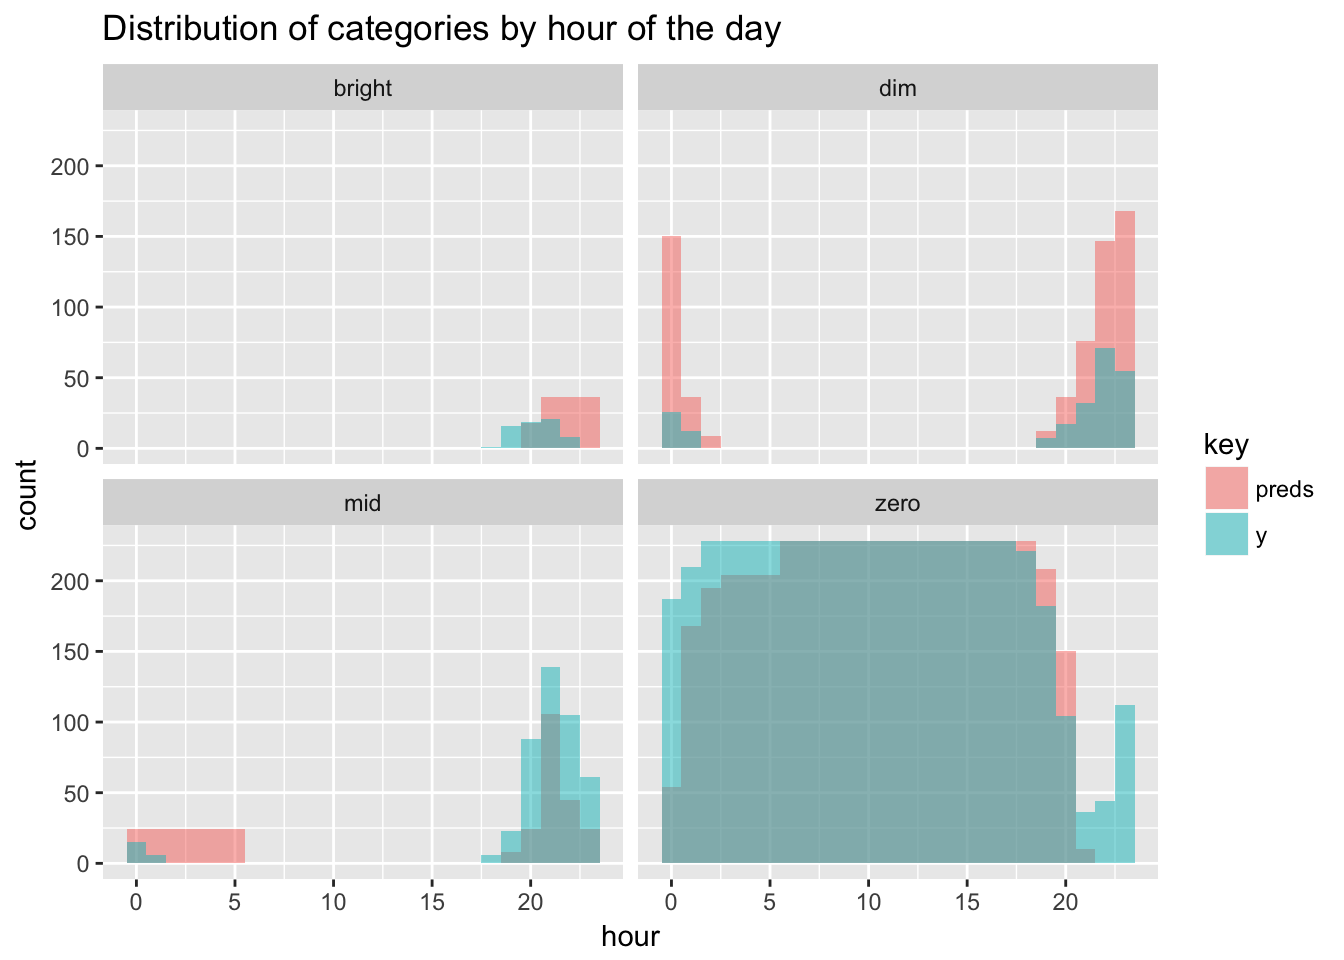
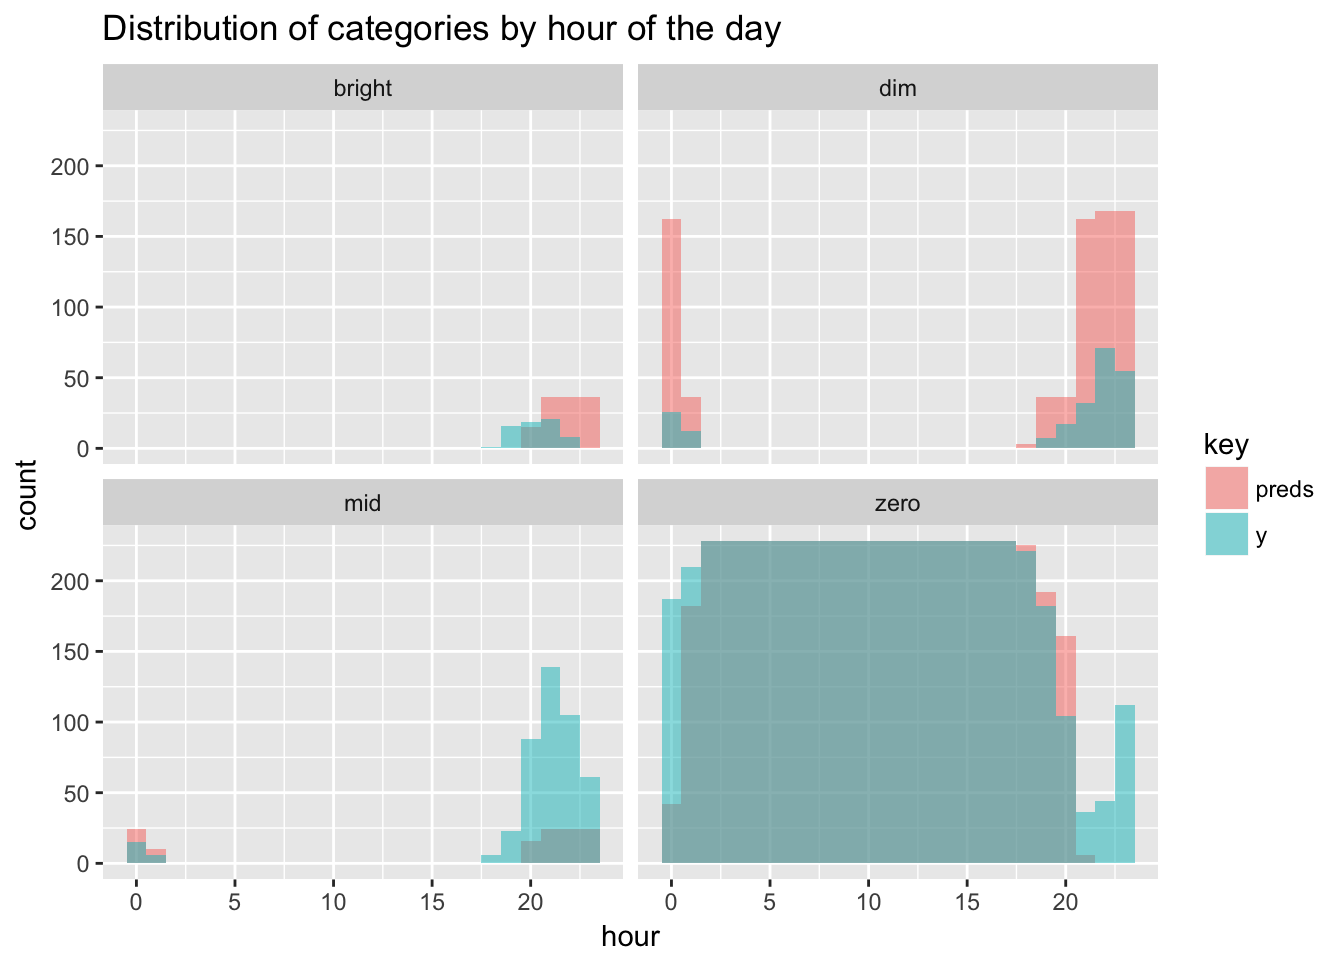
w disqus

diff --git a/blog/self-learning-hue-lights/index.html b/blog/self-learning-hue-lights/index.html
@@ -44,11 +44,11 @@
 
 
     
-    <link rel="stylesheet" href="../../css/reset.css?t=1504443331">
-    <link rel="stylesheet" href="../../css/pygments.css?t=1504443331">
-    <link rel="stylesheet" href="../../css/main.css?t=1504443331">
+    <link rel="stylesheet" href="../../css/reset.css?t=1504443548">
+    <link rel="stylesheet" href="../../css/pygments.css?t=1504443548">
+    <link rel="stylesheet" href="../../css/main.css?t=1504443548">
     
-        <link rel="stylesheet" href="../../css/override.css?t=1504443331">
+        <link rel="stylesheet" href="../../css/override.css?t=1504443548">
     
 
 
@@ -278,10 +278,10 @@ gbmFit &lt;- train(y ~ ., data = training,
 table(preds, testing$y)</code></pre>
 <pre><code>##         
 ## preds     dim  mid bright zero
-##   dim      88  192     23  331
-##   mid      49   82     11  209
-##   bright   37   57      0   32
-##   zero     46  112     31 4172</code></pre>
+##   dim     107  255     31  378
+##   mid      31   21      5   65
+##   bright   37   56      0   30
+##   zero     45  111     29 4271</code></pre>
 <p>Most mistakes are made trying to classify bright and mid. The model gets 0 bright values right and only manages to do so correctly 14% of the time for mid. But when do errors happen? To dig a little deeper let’s look at the previous histogram of categories by hour again for the test set, but now with the predictions overlaid on top.</p>
 <p><img src="../../blog/2017/2017-05-14-hue_files/figure-html/unnamed-chunk-11-1.png" width="672" /></p>
 <p>Bright values were always going be hard to guess, but the model at least comes close in terms of hours, but off on the exact days. The majority of misclassification comes from overzealously predicting dim in the evening and around midnight, when it should really be either mid or zero. That looks like a workable scenario for me.</p>
@@ -330,7 +330,21 @@ jug() %&gt;% post(&quot;/predict-hue&quot;, decorate(predict_hue)) %&gt;%
             </div>
             <br>
             <div class="disqus">
-                
+                <div id="disqus_thread"></div>
+<script type="text/javascript">
+    var disqus_shortname = 'Tamas';
+    var disqus_identifier = 'http:\/\/tamaszilagyi.com\/blog\/self-learning-hue-lights\/';
+    var disqus_title = 'Self-learning Hue Lights';
+    var disqus_url = 'http:\/\/tamaszilagyi.com\/blog\/self-learning-hue-lights\/';
+
+    (function() {
+        var dsq = document.createElement('script'); dsq.type = 'text/javascript'; dsq.async = true;
+        dsq.src = '//' + disqus_shortname + '.disqus.com/embed.js';
+        (document.getElementsByTagName('head')[0] || document.getElementsByTagName('body')[0]).appendChild(dsq);
+    })();
+</script>
+<noscript>Please enable JavaScript to view the <a href="http://disqus.com/?ref_noscript">comments powered by Disqus.</a></noscript>
+<a href="http://disqus.com" class="dsq-brlink">comments powered by <span class="logo-disqus">Disqus</span></a>
             </div>
         </div>
     </div>

diff --git a/blog/creating-a-spotify-playlist-using-luigi/index.html b/blog/creating-a-spotify-playlist-using-luigi/index.html
@@ -44,11 +44,11 @@
 
 
     
-    <link rel="stylesheet" href="../../css/reset.css?t=1504443331">
-    <link rel="stylesheet" href="../../css/pygments.css?t=1504443331">
-    <link rel="stylesheet" href="../../css/main.css?t=1504443331">
+    <link rel="stylesheet" href="../../css/reset.css?t=1504443548">
+    <link rel="stylesheet" href="../../css/pygments.css?t=1504443548">
+    <link rel="stylesheet" href="../../css/main.css?t=1504443548">
     
-        <link rel="stylesheet" href="../../css/override.css?t=1504443331">
+        <link rel="stylesheet" href="../../css/override.css?t=1504443548">
     
 
 
@@ -432,7 +432,21 @@ class spotify_morning_playlist(luigi.Task):
             </div>
             <br>
             <div class="disqus">
-                
+                <div id="disqus_thread"></div>
+<script type="text/javascript">
+    var disqus_shortname = 'Tamas';
+    var disqus_identifier = 'http:\/\/tamaszilagyi.com\/blog\/creating-a-spotify-playlist-using-luigi\/';
+    var disqus_title = 'Creating a Spotify Playlist using Luigi';
+    var disqus_url = 'http:\/\/tamaszilagyi.com\/blog\/creating-a-spotify-playlist-using-luigi\/';
+
+    (function() {
+        var dsq = document.createElement('script'); dsq.type = 'text/javascript'; dsq.async = true;
+        dsq.src = '//' + disqus_shortname + '.disqus.com/embed.js';
+        (document.getElementsByTagName('head')[0] || document.getElementsByTagName('body')[0]).appendChild(dsq);
+    })();
+</script>
+<noscript>Please enable JavaScript to view the <a href="http://disqus.com/?ref_noscript">comments powered by Disqus.</a></noscript>
+<a href="http://disqus.com" class="dsq-brlink">comments powered by <span class="logo-disqus">Disqus</span></a>
             </div>
         </div>
     </div>

diff --git a/blog/analyzing-my-spotify-listening-history/index.html b/blog/analyzing-my-spotify-listening-history/index.html
@@ -44,11 +44,11 @@
 
 
     
-    <link rel="stylesheet" href="../../css/reset.css?t=1504443331">
-    <link rel="stylesheet" href="../../css/pygments.css?t=1504443331">
-    <link rel="stylesheet" href="../../css/main.css?t=1504443331">
+    <link rel="stylesheet" href="../../css/reset.css?t=1504443548">
+    <link rel="stylesheet" href="../../css/pygments.css?t=1504443548">
+    <link rel="stylesheet" href="../../css/main.css?t=1504443548">
     
-        <link rel="stylesheet" href="../../css/override.css?t=1504443331">
+        <link rel="stylesheet" href="../../css/override.css?t=1504443548">
     
 
 
@@ -398,7 +398,21 @@ gganimate(gg_life)</code></pre>
             </div>
             <br>
             <div class="disqus">
-                
+                <div id="disqus_thread"></div>
+<script type="text/javascript">
+    var disqus_shortname = 'Tamas';
+    var disqus_identifier = 'http:\/\/tamaszilagyi.com\/blog\/analyzing-my-spotify-listening-history\/';
+    var disqus_title = 'Analyzing My Spotify Listening History';
+    var disqus_url = 'http:\/\/tamaszilagyi.com\/blog\/analyzing-my-spotify-listening-history\/';
+
+    (function() {
+        var dsq = document.createElement('script'); dsq.type = 'text/javascript'; dsq.async = true;
+        dsq.src = '//' + disqus_shortname + '.disqus.com/embed.js';
+        (document.getElementsByTagName('head')[0] || document.getElementsByTagName('body')[0]).appendChild(dsq);
+    })();
+</script>
+<noscript>Please enable JavaScript to view the <a href="http://disqus.com/?ref_noscript">comments powered by Disqus.</a></noscript>
+<a href="http://disqus.com" class="dsq-brlink">comments powered by <span class="logo-disqus">Disqus</span></a>
             </div>
         </div>
     </div>

diff --git a/blog/starting-a-blogdown/index.html b/blog/starting-a-blogdown/index.html
@@ -44,11 +44,11 @@
 
 
     
-    <link rel="stylesheet" href="../../css/reset.css?t=1504443331">
-    <link rel="stylesheet" href="../../css/pygments.css?t=1504443331">
-    <link rel="stylesheet" href="../../css/main.css?t=1504443331">
+    <link rel="stylesheet" href="../../css/reset.css?t=1504443548">
+    <link rel="stylesheet" href="../../css/pygments.css?t=1504443548">
+    <link rel="stylesheet" href="../../css/main.css?t=1504443548">
     
-        <link rel="stylesheet" href="../../css/override.css?t=1504443331">
+        <link rel="stylesheet" href="../../css/override.css?t=1504443548">
     
 
 
@@ -212,7 +212,21 @@ avatar       = &quot;img/profile_pic.png&quot;
             </div>
             <br>
             <div class="disqus">
-                
+                <div id="disqus_thread"></div>
+<script type="text/javascript">
+    var disqus_shortname = 'Tamas';
+    var disqus_identifier = 'http:\/\/tamaszilagyi.com\/blog\/starting-a-blogdown\/';
+    var disqus_title = 'Starting a blog(down)';
+    var disqus_url = 'http:\/\/tamaszilagyi.com\/blog\/starting-a-blogdown\/';
+
+    (function() {
+        var dsq = document.createElement('script'); dsq.type = 'text/javascript'; dsq.async = true;
+        dsq.src = '//' + disqus_shortname + '.disqus.com/embed.js';
+        (document.getElementsByTagName('head')[0] || document.getElementsByTagName('body')[0]).appendChild(dsq);
+    })();
+</script>
+<noscript>Please enable JavaScript to view the <a href="http://disqus.com/?ref_noscript">comments powered by Disqus.</a></noscript>
+<a href="http://disqus.com" class="dsq-brlink">comments powered by <span class="logo-disqus">Disqus</span></a>
             </div>
         </div>
     </div>

diff --git a/categories/r/index.html b/categories/r/index.html
@@ -44,11 +44,11 @@
 
 
     
-    <link rel="stylesheet" href="../../css/reset.css?t=1504443331">
-    <link rel="stylesheet" href="../../css/pygments.css?t=1504443331">
-    <link rel="stylesheet" href="../../css/main.css?t=1504443331">
+    <link rel="stylesheet" href="../../css/reset.css?t=1504443549">
+    <link rel="stylesheet" href="../../css/pygments.css?t=1504443549">
+    <link rel="stylesheet" href="../../css/main.css?t=1504443549">
     
-        <link rel="stylesheet" href="../../css/override.css?t=1504443331">
+        <link rel="stylesheet" href="../../css/override.css?t=1504443549">
     
 
 

diff --git a/tags/dplyr/index.html b/tags/dplyr/index.html
@@ -44,11 +44,11 @@
 
 
     
-    <link rel="stylesheet" href="../../css/reset.css?t=1504443331">
-    <link rel="stylesheet" href="../../css/pygments.css?t=1504443331">
-    <link rel="stylesheet" href="../../css/main.css?t=1504443331">
+    <link rel="stylesheet" href="../../css/reset.css?t=1504443549">
+    <link rel="stylesheet" href="../../css/pygments.css?t=1504443549">
+    <link rel="stylesheet" href="../../css/main.css?t=1504443549">
     
-        <link rel="stylesheet" href="../../css/override.css?t=1504443331">
+        <link rel="stylesheet" href="../../css/override.css?t=1504443549">
     
 
 

diff --git a/tags/ggplot/index.html b/tags/ggplot/index.html
@@ -44,11 +44,11 @@
 
 
     
-    <link rel="stylesheet" href="../../css/reset.css?t=1504443331">
-    <link rel="stylesheet" href="../../css/pygments.css?t=1504443331">
-    <link rel="stylesheet" href="../../css/main.css?t=1504443331">
+    <link rel="stylesheet" href="../../css/reset.css?t=1504443549">
+    <link rel="stylesheet" href="../../css/pygments.css?t=1504443549">
+    <link rel="stylesheet" href="../../css/main.css?t=1504443549">
     
-        <link rel="stylesheet" href="../../css/override.css?t=1504443331">
+        <link rel="stylesheet" href="../../css/override.css?t=1504443549">
     
 
 

diff --git a/tags/hue/index.html b/tags/hue/index.html
@@ -44,11 +44,11 @@
 
 
     
-    <link rel="stylesheet" href="../../css/reset.css?t=1504443331">
-    <link rel="stylesheet" href="../../css/pygments.css?t=1504443331">
-    <link rel="stylesheet" href="../../css/main.css?t=1504443331">
+    <link rel="stylesheet" href="../../css/reset.css?t=1504443549">
+    <link rel="stylesheet" href="../../css/pygments.css?t=1504443549">
+    <link rel="stylesheet" href="../../css/main.css?t=1504443549">
     
-        <link rel="stylesheet" href="../../css/override.css?t=1504443331">
+        <link rel="stylesheet" href="../../css/override.css?t=1504443549">
     
 
 

diff --git a/tags/luigi/index.html b/tags/luigi/index.html
@@ -44,11 +44,11 @@
 
 
     
-    <link rel="stylesheet" href="../../css/reset.css?t=1504443331">
-    <link rel="stylesheet" href="../../css/pygments.css?t=1504443331">
-    <link rel="stylesheet" href="../../css/main.css?t=1504443331">
+    <link rel="stylesheet" href="../../css/reset.css?t=1504443549">
+    <link rel="stylesheet" href="../../css/pygments.css?t=1504443549">
+    <link rel="stylesheet" href="../../css/main.css?t=1504443549">
     
-        <link rel="stylesheet" href="../../css/override.css?t=1504443331">
+        <link rel="stylesheet" href="../../css/override.css?t=1504443549">
     
 
 

diff --git a/tags/plot/index.html b/tags/plot/index.html
@@ -44,11 +44,11 @@
 
 
     
-    <link rel="stylesheet" href="../../css/reset.css?t=1504443331">
-    <link rel="stylesheet" href="../../css/pygments.css?t=1504443331">
-    <link rel="stylesheet" href="../../css/main.css?t=1504443331">
+    <link rel="stylesheet" href="../../css/reset.css?t=1504443549">
+    <link rel="stylesheet" href="../../css/pygments.css?t=1504443549">
+    <link rel="stylesheet" href="../../css/main.css?t=1504443549">
     
-        <link rel="stylesheet" href="../../css/override.css?t=1504443331">
+        <link rel="stylesheet" href="../../css/override.css?t=1504443549">
     
 
 

diff --git a/tags/purrr/index.html b/tags/purrr/index.html
@@ -44,11 +44,11 @@
 
 
     
-    <link rel="stylesheet" href="../../css/reset.css?t=1504443331">
-    <link rel="stylesheet" href="../../css/pygments.css?t=1504443331">
-    <link rel="stylesheet" href="../../css/main.css?t=1504443331">
+    <link rel="stylesheet" href="../../css/reset.css?t=1504443549">
+    <link rel="stylesheet" href="../../css/pygments.css?t=1504443549">
+    <link rel="stylesheet" href="../../css/main.css?t=1504443549">
     
-        <link rel="stylesheet" href="../../css/override.css?t=1504443331">
+        <link rel="stylesheet" href="../../css/override.css?t=1504443549">
     
 
 

diff --git a/tags/python/index.html b/tags/python/index.html
@@ -44,11 +44,11 @@
 
 
     
-    <link rel="stylesheet" href="../../css/reset.css?t=1504443331">
-    <link rel="stylesheet" href="../../css/pygments.css?t=1504443331">
-    <link rel="stylesheet" href="../../css/main.css?t=1504443331">
+    <link rel="stylesheet" href="../../css/reset.css?t=1504443549">
+    <link rel="stylesheet" href="../../css/pygments.css?t=1504443549">
+    <link rel="stylesheet" href="../../css/main.css?t=1504443549">
     
-        <link rel="stylesheet" href="../../css/override.css?t=1504443331">
+        <link rel="stylesheet" href="../../css/override.css?t=1504443549">
     
 
 
